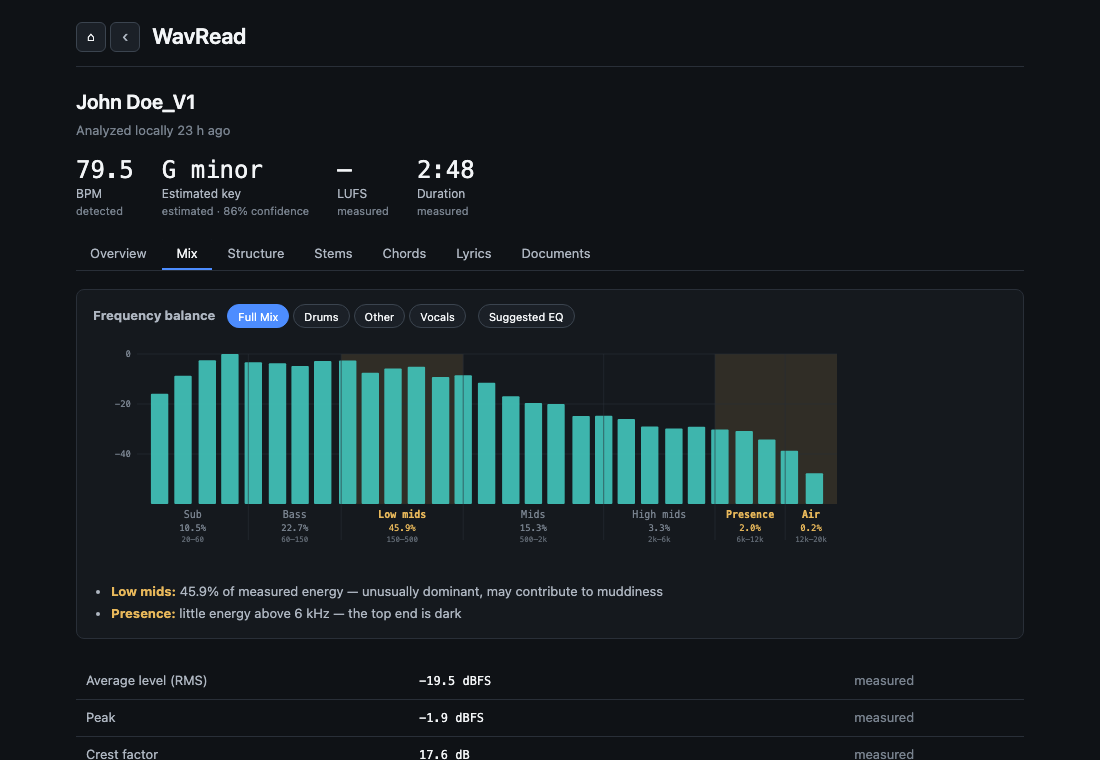
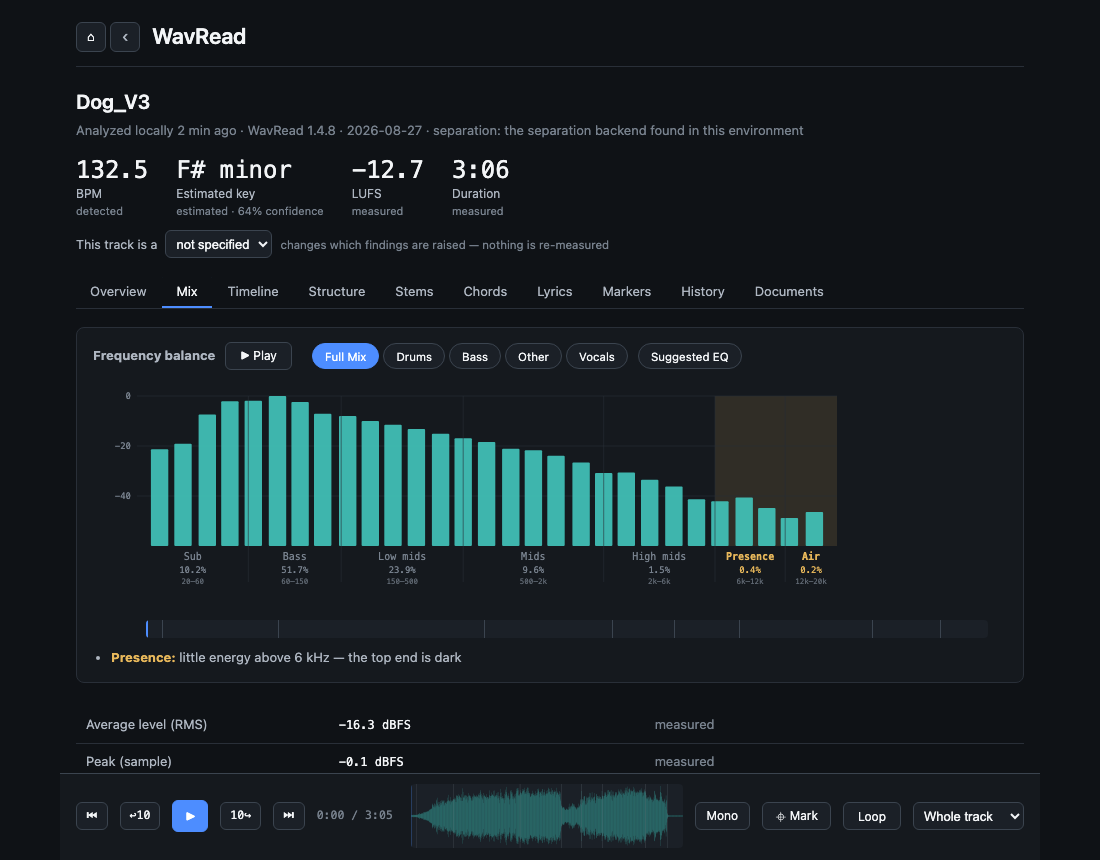
First launch has no warning to click past
WavRead is signed with a Developer ID and notarised, so the pages that walked
buyers through Privacy & Security now say it simply opens — and a test fails
if any page reintroduces those instructions. Held until Apple confirmed the
notarisation rather than published on the strength of the certificate.

diff --git a/docs/index.html b/docs/index.html
@@ -5,6 +5,15 @@
 <title>WavRead — music analysis you can read</title>
 <meta name="viewport" content="width=device-width, initial-scale=1">
 <meta name="description" content="WavRead measures your music locally and translates the results into clear language, evidence, and documents for producers, engineers, and artists.">
+<link rel="canonical" href="https://wavread.vercel.app/">
+<meta property="og:type" content="website">
+<meta property="og:site_name" content="WavRead">
+<meta property="og:title" content="WavRead — music analysis you can read">
+<meta property="og:description" content="WavRead measures your music locally and translates the results into clear language, evidence, and documents for producers, engineers, and artists.">
+<meta property="og:url" content="https://wavread.vercel.app/">
+<meta property="og:image" content="https://wavread.vercel.app/img/og-card.png">
+<meta property="og:image:alt" content="The WavRead workspace: a track's measured tempo, key, loudness and findings.">
+<meta name="twitter:card" content="summary_large_image">
 <meta name="theme-color" content="#0B0D10">
 <link rel="icon" type="image/png" href="favicon.png">
 <link rel="apple-touch-icon" href="apple-touch-icon.png">
@@ -50,13 +59,13 @@
     </div>
     <div class="hero-product">
       <div class="measurement-rail" aria-label="Measurements shown in the product screenshot">
-        <span><b>79.5</b><small>BPM · DETECTED</small></span>
-        <span><b>G MINOR</b><small>KEY · 86% CONFIDENCE</small></span>
-        <span><b>2:48</b><small>DURATION · MEASURED</small></span>
+        <span><b>132.5</b><small>BPM · DETECTED</small></span>
+        <span><b>F# MINOR</b><small>KEY · 64% CONFIDENCE</small></span>
+        <span><b>&minus;12.7</b><small>LUFS · MEASURED</small></span>
       </div>
       <figure class="app-window">
         <div class="window-bar" aria-hidden="true"><i></i><i></i><i></i><span>WavRead — Track Workspace</span></div>
-        <img src="img/workspace-overview.png" alt="WavRead Track Workspace showing detected tempo, estimated key, measured duration, and evidence-based findings for an analyzed song." width="1100" height="900">
+        <img src="img/workspace-overview.png" alt="WavRead Track Workspace showing detected tempo, estimated key, measured loudness and duration, and evidence-based findings for an analyzed song." width="1100" height="900">
       </figure>
       <p class="product-note"><span>Analysis complete</span> Measured locally · audio never leaves your computer.</p>
     </div>
@@ -85,7 +94,7 @@
       <ul class="inline-facts"><li>Evidence-linked findings</li><li>Time-based graphs</li><li>Per-part measurements</li></ul>
     </div>
     <figure class="feature-visual reveal">
-      <img src="img/frequency-balance.png" alt="WavRead frequency balance view with a one-third-octave spectrum and an evidence-based low-mid finding." width="1100" height="760" loading="lazy">
+      <img src="img/frequency-balance.png" alt="WavRead frequency balance view with a one-third-octave spectrum, per-band percentages, and an evidence-based finding about a dark top end." width="1100" height="860" loading="lazy">
       <figcaption><span>Frequency balance</span> The finding names the measurement and the part of the spectrum it stands on.</figcaption>
     </figure>
   </section>
@@ -146,9 +155,9 @@
   <section class="download-section" id="download" aria-labelledby="download-title">
     <p class="eyebrow"><span>Current release</span> 1.4.8 · August 27, 2026</p>
     <h2 id="download-title">Your music is ready to be read.</h2>
-    <p>$5, once — no subscription. Apple Silicon Macs running macOS 14 or later. The
-    installer is not yet code-signed, so first launch takes one extra step: open it,
-    choose Done, then System Settings → Privacy &amp; Security → Open Anyway.</p>
+    <p>$5, once — no subscription. Apple Silicon Macs running macOS 14 or later.
+    Signed with an Apple Developer ID and notarised by Apple, so it opens with no
+    security warning to click past.</p>
     <a class="btn primary download-button" href="early-build.html">Buy WavRead 1.4.8 <span>$5 · one-time · 236 MB DMG</span></a>
     <div class="release-summary"><strong>Latest update</strong><p>Problem reports you control, a Report a Problem page, DAW capture with the Bridge plugin, master-bus measurements, and per-part true peak and clipping.</p><a href="early-build.html">What the $5 buys →</a></div>
   </section>

diff --git a/docs/privacy.html b/docs/privacy.html
@@ -8,6 +8,15 @@
 <link rel="icon" type="image/png" href="favicon.png">
 <link rel="apple-touch-icon" href="apple-touch-icon.png">
 <meta name="description" content="Every request WavRead can make, listed. Your music is never uploaded, the desktop app needs no account, and there is no telemetry — here is the full accounting.">
+<link rel="canonical" href="https://wavread.vercel.app/privacy">
+<meta property="og:type" content="website">
+<meta property="og:site_name" content="WavRead">
+<meta property="og:title" content="Privacy — WavRead">
+<meta property="og:description" content="Every request WavRead can make, listed. Your music is never uploaded, the desktop app needs no account, and there is no telemetry — here is the full accounting.">
+<meta property="og:url" content="https://wavread.vercel.app/privacy">
+<meta property="og:image" content="https://wavread.vercel.app/img/og-card.png">
+<meta property="og:image:alt" content="The WavRead workspace: a track's measured tempo, key, loudness and findings.">
+<meta name="twitter:card" content="summary_large_image">
 <link rel="stylesheet" href="site.css">
 <script src="js/site.js" defer></script>
 </head>
@@ -149,6 +158,14 @@ your email, the amount, the date, and Stripe's checkout reference — because
 that record is what makes the purchase yours across devices and years.
 Stripe's own processing is governed by
 <a href="https://stripe.com/privacy" rel="noopener">Stripe's privacy policy</a>.</p>
+<p>If you reached the purchase page from an advertisement, its link carries a
+short campaign label — <code>reels-a</code> and the like. The label says which
+advertisement was clicked, not who clicked it: it is read from the address you
+arrived on, sent once with the purchase, and kept alongside the purchase record
+so WavRead can tell which advertisements are worth paying for. It is not an
+identifier, it is never combined with anything else, nothing is stored in your
+browser to carry it, and arriving without one changes nothing about the
+purchase or the price.</p>
 <p>Access, ownership, and reports are protected by account ownership and
 database policies. Removing the sign-in-provider account disconnects access but
 does not erase the stable account record, its purchases, or its reports,

diff --git a/docs/early-build.html b/docs/early-build.html
@@ -8,6 +8,15 @@
 <link rel="icon" type="image/png" href="favicon.png">
 <link rel="apple-touch-icon" href="apple-touch-icon.png">
 <meta name="description" content="WavRead is a $5 paid beta: every beta build on your dashboard, verified by SHA-256, with your reports tracked and your early support on the record.">
+<link rel="canonical" href="https://wavread.vercel.app/early-build">
+<meta property="og:type" content="website">
+<meta property="og:site_name" content="WavRead">
+<meta property="og:title" content="Get WavRead — $5">
+<meta property="og:description" content="WavRead is a $5 paid beta: every beta build on your dashboard, verified by SHA-256, with your reports tracked and your early support on the record.">
+<meta property="og:url" content="https://wavread.vercel.app/early-build">
+<meta property="og:image" content="https://wavread.vercel.app/img/og-card.png">
+<meta property="og:image:alt" content="The WavRead workspace: a track's measured tempo, key, loudness and findings.">
+<meta name="twitter:card" content="summary_large_image">
 <link rel="stylesheet" href="site.css">
 <script src="js/site.js" defer></script>
 <script src="js/early-build.js" type="module"></script>
@@ -57,10 +66,9 @@ One payment — no subscription, and it never renews.</p>
 <p>It is not a licence for the eventual 1.0, which has no promised date and no
 final price — though buying now is exactly the record that makes you an early
 supporter when that price is decided. It is not a subscription and never
-renews. And it does not buy a signed installer yet: beta builds are unsigned
-until WavRead has an Apple Developer account, so first launch needs one
-approval in
-System&nbsp;Settings&nbsp;→&nbsp;Privacy&nbsp;&amp;&nbsp;Security&nbsp;→&nbsp;Open&nbsp;Anyway.</p>
+renews. What it does buy is a build that simply opens: WavRead is signed with
+an Apple Developer ID and notarised by Apple, so there is no security warning
+to click past on first launch.</p>
 
 <p>WavRead is beta software sold as beta software: it measures carefully and
 says when it is estimating, but it is unfinished, and the honest reason the

diff --git a/docs/faq.html b/docs/faq.html
@@ -8,6 +8,15 @@
 <link rel="icon" type="image/png" href="favicon.png">
 <link rel="apple-touch-icon" href="apple-touch-icon.png">
 <meta name="description" content="Straight answers about what WavRead measures, what it refuses to guess, what leaves your machine, and what it costs.">
+<link rel="canonical" href="https://wavread.vercel.app/faq">
+<meta property="og:type" content="website">
+<meta property="og:site_name" content="WavRead">
+<meta property="og:title" content="Questions — WavRead">
+<meta property="og:description" content="Straight answers about what WavRead measures, what it refuses to guess, what leaves your machine, and what it costs.">
+<meta property="og:url" content="https://wavread.vercel.app/faq">
+<meta property="og:image" content="https://wavread.vercel.app/img/og-card.png">
+<meta property="og:image:alt" content="The WavRead workspace: a track's measured tempo, key, loudness and findings.">
+<meta name="twitter:card" content="summary_large_image">
 <link rel="stylesheet" href="site.css">
 <script src="js/site.js" defer></script>
 </head>
@@ -73,12 +82,12 @@
 </div>
 
 <div class="qa">
-  <h3>Why does macOS say the app is from an unidentified developer?</h3>
-  <p>Because it is not code-signed with an Apple Developer certificate yet.
-  Open it once, choose Done on the warning, then approve it under System
-  Settings → Privacy &amp; Security → Open Anyway. (Right-click → Open stopped
-  working for unsigned apps in macOS 15.) Signing and notarisation
-  are on the list; until then that prompt is the honest consequence.</p>
+  <h3>Will macOS warn me when I open it?</h3>
+  <p>No. WavRead is signed with an Apple Developer ID and notarised by Apple,
+  and the notarisation ticket is stapled to the disk image — so it opens
+  normally, and it opens normally even on a machine that is offline. Builds
+  before 1.4.8 were unsigned and did need a trip through System Settings →
+  Privacy &amp; Security; that is over.</p>
 </div>
 
 <div class="qa">

diff --git a/docs/requirements.html b/docs/requirements.html
@@ -8,6 +8,15 @@
 <link rel="icon" type="image/png" href="favicon.png">
 <link rel="apple-touch-icon" href="apple-touch-icon.png">
 <meta name="description" content="What WavRead needs to run, what it runs well on, and the upper limits of what it will accept — measured, not estimated.">
+<link rel="canonical" href="https://wavread.vercel.app/requirements">
+<meta property="og:type" content="website">
+<meta property="og:site_name" content="WavRead">
+<meta property="og:title" content="Device requirements — WavRead">
+<meta property="og:description" content="What WavRead needs to run, what it runs well on, and the upper limits of what it will accept — measured, not estimated.">
+<meta property="og:url" content="https://wavread.vercel.app/requirements">
+<meta property="og:image" content="https://wavread.vercel.app/img/og-card.png">
+<meta property="og:image:alt" content="The WavRead workspace: a track's measured tempo, key, loudness and findings.">
+<meta name="twitter:card" content="summary_large_image">
 <link rel="stylesheet" href="site.css">
 <script src="js/site.js" defer></script>
 </head>
@@ -129,9 +138,9 @@ minute</strong> of audio, on top of a 2.5 GB base.</p>
   </div>
   <div class="card">
     <h3>No admin rights</h3>
-    <p>Drag it to Applications. The app is unsigned, so on first launch
-    open it once, choose Done on the warning, then approve it under System
-    Settings → Privacy &amp; Security → Open Anyway.</p>
+    <p>Drag it to Applications and open it. The app is signed with an Apple
+    Developer ID and notarised by Apple, so macOS opens it without a warning
+    and without an administrator password.</p>
   </div>
 </div>
 

diff --git a/docs/js/early-build.js b/docs/js/early-build.js
@@ -6,6 +6,18 @@
 
 const LOCAL_HOSTS = new Set(["127.0.0.1", "localhost", "::1"]);
 
+// If this page was reached from an advertisement, the link carries a short
+// campaign label — `?from=reels-a`. It is read from the address bar, sent once
+// with the purchase, and kept nowhere else: no cookie, no storage, no script
+// from anyone else. The server decides which labels it recognizes; this only
+// keeps something obviously wrong from being sent at all.
+function campaignLabel() {
+  const raw = new URLSearchParams(location.search).get("from");
+  if (!raw) return null;
+  const label = raw.trim().toLowerCase();
+  return /^[a-z0-9-]{1,24}$/.test(label) ? label : null;
+}
+
 async function loadConfiguration() {
   if (LOCAL_HOSTS.has(location.hostname)) return window.WAVREAD_BETA_CONFIG;
   try {
@@ -43,13 +55,14 @@ async function initializeCheckout() {
     event.preventDefault();
     if (!form.reportValidity()) return;
     const email = new FormData(form).get("email").trim().toLowerCase();
+    const source = campaignLabel();
     submit.disabled = true;
     setStatus(status, "Preparing the payment page…");
     try {
       const response = await fetch(endpoint, {
         method: "POST",
         headers: { "Content-Type": "application/json" },
-        body: JSON.stringify({ email }),
+        body: JSON.stringify(source ? { email, source } : { email }),
       });
       const result = await response.json().catch(() => ({}));
       if (response.status === 503) {

diff --git a/docs/documents.html b/docs/documents.html
@@ -8,6 +8,15 @@
 <link rel="icon" type="image/png" href="favicon.png">
 <link rel="apple-touch-icon" href="apple-touch-icon.png">
 <meta name="description" content="What WavRead writes: a Track Document holding every measurement in readable language, and a Feedback Report where each finding carries the measurement it stands on.">
+<link rel="canonical" href="https://wavread.vercel.app/documents">
+<meta property="og:type" content="website">
+<meta property="og:site_name" content="WavRead">
+<meta property="og:title" content="The documents — WavRead">
+<meta property="og:description" content="What WavRead writes: a Track Document holding every measurement in readable language, and a Feedback Report where each finding carries the measurement it stands on.">
+<meta property="og:url" content="https://wavread.vercel.app/documents">
+<meta property="og:image" content="https://wavread.vercel.app/img/og-card.png">
+<meta property="og:image:alt" content="The WavRead workspace: a track's measured tempo, key, loudness and findings.">
+<meta name="twitter:card" content="summary_large_image">
 <link rel="stylesheet" href="site.css">
 <script src="js/site.js" defer></script>
 </head>

diff --git a/docs/capture.html b/docs/capture.html
@@ -8,6 +8,15 @@
 <link rel="icon" type="image/png" href="favicon.png">
 <link rel="apple-touch-icon" href="apple-touch-icon.png">
 <meta name="description" content="WavRead Bridge is an AU and VST3 plugin that records what passes through it and hands the audio to WavRead — the master, the individual parts, or both at once.">
+<link rel="canonical" href="https://wavread.vercel.app/capture">
+<meta property="og:type" content="website">
+<meta property="og:site_name" content="WavRead">
+<meta property="og:title" content="Capture from your DAW — WavRead">
+<meta property="og:description" content="WavRead Bridge is an AU and VST3 plugin that records what passes through it and hands the audio to WavRead — the master, the individual parts, or both at once.">
+<meta property="og:url" content="https://wavread.vercel.app/capture">
+<meta property="og:image" content="https://wavread.vercel.app/img/og-card.png">
+<meta property="og:image:alt" content="The WavRead workspace: a track's measured tempo, key, loudness and findings.">
+<meta name="twitter:card" content="summary_large_image">
 <link rel="stylesheet" href="site.css">
 <script src="js/site.js" defer></script>
 </head>

diff --git a/docs/how-it-works.html b/docs/how-it-works.html
@@ -8,6 +8,15 @@
 <link rel="icon" type="image/png" href="favicon.png">
 <link rel="apple-touch-icon" href="apple-touch-icon.png">
 <meta name="description" content="What WavRead measures, what it only estimates, and how it tells you which is which — the whole path from an audio file to a document you can read.">
+<link rel="canonical" href="https://wavread.vercel.app/how-it-works">
+<meta property="og:type" content="website">
+<meta property="og:site_name" content="WavRead">
+<meta property="og:title" content="How it works — WavRead">
+<meta property="og:description" content="What WavRead measures, what it only estimates, and how it tells you which is which — the whole path from an audio file to a document you can read.">
+<meta property="og:url" content="https://wavread.vercel.app/how-it-works">
+<meta property="og:image" content="https://wavread.vercel.app/img/og-card.png">
+<meta property="og:image:alt" content="The WavRead workspace: a track's measured tempo, key, loudness and findings.">
+<meta name="twitter:card" content="summary_large_image">
 <link rel="stylesheet" href="site.css">
 <script src="js/site.js" defer></script>
 </head>

diff --git a/docs/beta-dashboard.html b/docs/beta-dashboard.html
@@ -77,7 +77,7 @@
 
     <section class="dashboard-section" aria-labelledby="getting-started-title">
       <span class="card-kicker">Getting started</span><h2 id="getting-started-title">From download to useful feedback</h2><p>One short pass is enough to help.</p>
-      <ol class="onboarding-list"><li><span>01</span>Download and open the DMG.</li><li><span>02</span>Approve it once: Privacy &amp; Security → Open Anyway.</li><li><span>03</span>Analyze a track you know well.</li><li><span>04</span>Read the evidence and press Listen.</li><li><span>05</span>Tell us what helped or got in the way.</li></ol>
+      <ol class="onboarding-list"><li><span>01</span>Download and open the DMG.</li><li><span>02</span>Drag it to Applications and open it — no warning.</li><li><span>03</span>Analyze a track you know well.</li><li><span>04</span>Read the evidence and press Listen.</li><li><span>05</span>Tell us what helped or got in the way.</li></ol>
     </section>
 
     <section class="dashboard-section" aria-labelledby="release-title">
